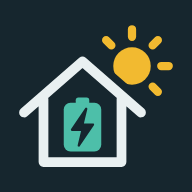
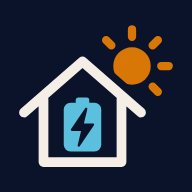
Nieuw kleurenschema: navy, staalblauw, lichtblauw, zand en oranje
Dag = zand/creme canvas met navy inkt, nacht = #0B132B met creme inkt.
Oranje #D97706 is de call to action (primaire knoppen, schakelaars aan).
Betekeniskleuren afgestemd op het palet en getoetst op contrast (>= 4.5:1).
Icoon, logo's, splash, theme-color, manifest en e-mails mee.

Claude-Session: https://claude.ai/code/session_01V9oTzT3oYTA3isygKgAei9

Changed region(s): [[0.5312, 0.125, 0.9062, 0.5], [0.3125, 0.5, 0.5312, 0.8125]]

diff --git a/app/assets/main.css b/app/assets/main.css
@@ -1,8 +1,9 @@
 /*
  * WattsWise design system.
  *
- * The canvas follows the sun over the house, not the phone: daylight grey (the STREAM's casing)
- * while the sun is up, polder-night blue after dusk. `plugins/sky.client.ts` sets
+ * The canvas follows the sun over the house, not the phone: sand (#F4D6B0, lightened) with navy ink
+ * while the sun is up, navy (#0B132B) with cream ink after dusk. The palette: #0B132B · #1C2541 ·
+ * #3A506B · #5BC0DE · #F4D6B0 · #D97706. `plugins/sky.client.ts` sets
  * <html data-sky="day|night">.
  *
  * Color carries meaning, never decoration, and the meaning is the price:
@@ -12,6 +13,7 @@
  *   own    = self-use
  *   hold   = holding / idle
  * The charge level itself is ink: the battery is neutral, what it does is colored.
+ * Orange (#D97706) is the call to action and nothing else: primary buttons and switches that are on.
  *
  * One typeface, Archivo, with its width axis doing the work: wide for the status sentence,
  * normal for reading, condensed + tabular for numbers and dense rows.
@@ -42,53 +44,56 @@
 :root,
 :root[data-sky='day'] {
   color-scheme: light;
-  --bg: #e6ecee;
-  --surface: #f2f5f6;
-  --surface-2: #dbe3e6;
-  --surface-3: #c9d4d8;
-  --rule: rgba(15, 34, 41, 0.14);
-  --text: #0f2229;
-  --text-2: #4a5f67;
-  --muted: #5c7077;
-  --fill: rgba(15, 34, 41, 0.1);
-  --fill-2: rgba(15, 34, 41, 0.055);
-  --grid: rgba(15, 34, 41, 0.09);
+  --bg: #f6efe4;
+  --surface: #fcf8f2;
+  --surface-2: #ede3d5;
+  --surface-3: #e0d3c1;
+  --rule: rgba(11, 19, 43, 0.14);
+  --text: #0b132b;
+  --text-2: #3a506b;
+  --muted: #5e6a80;
+  --fill: rgba(11, 19, 43, 0.1);
+  --fill-2: rgba(11, 19, 43, 0.055);
+  --grid: rgba(11, 19, 43, 0.09);
 
-  --cheap: #1b7062;
+  --cheap: #17765a;
   --dear: #a8325f;
-  --sun: #a87700;
+  --sun: #946200;
   --own: #5a4fc0;
-  --hold: #6c7f85;
-  --import: #2c6690;
+  --hold: #64748b;
+  --import: #1d6e8c;
   --alert: #b3372a;
 }
 
 :root[data-sky='night'] {
   color-scheme: dark;
-  --bg: #16262e;
-  --surface: #1c2f38;
-  --surface-2: #243a45;
-  --surface-3: #2f4753;
-  --rule: rgba(233, 240, 241, 0.13);
-  --text: #e9f0f1;
-  --text-2: #a2b4ba;
-  --muted: #74898f;
-  --fill: rgba(233, 240, 241, 0.12);
-  --fill-2: rgba(233, 240, 241, 0.065);
-  --grid: rgba(233, 240, 241, 0.08);
+  --bg: #0b132b;
+  --surface: #1c2541;
+  --surface-2: #26314f;
+  --surface-3: #3a506b;
+  --rule: rgba(244, 238, 230, 0.13);
+  --text: #f4eee6;
+  --text-2: #b0bacb;
+  --muted: #7f8ca3;
+  --fill: rgba(244, 238, 230, 0.12);
+  --fill-2: rgba(244, 238, 230, 0.065);
+  --grid: rgba(244, 238, 230, 0.08);
 
-  --cheap: #4dbfa9;
-  --dear: #ec6e9f;
-  --sun: #f2ba30;
-  --own: #a497f2;
-  --hold: #6f868e;
-  --import: #79aedd;
-  --alert: #f2786a;
+  --cheap: #5dcaa0;
+  --dear: #ee85a8;
+  --sun: #f5c451;
+  --own: #a9a1f5;
+  --hold: #7b8da8;
+  --import: #5bc0de;
+  --alert: #f47f6e;
 }
 
 :root {
   --separator: var(--rule);
   --accent: var(--text);
+  /* Call to action, the same in both skies: navy on orange is 5.8:1 (white on it would be 3.2:1) */
+  --cta: #d97706;
+  --on-cta: #0b132b;
 
   /* Older names, mapped onto the meanings above so every page follows the new palette */
   --sys-green: var(--cheap);
@@ -126,11 +131,11 @@
 * { box-sizing: border-box; -webkit-tap-highlight-color: transparent; }
 
 /* Launched at night, iOS draws white status text over the page (see utils/skyBoot.ts).
-   Keep a polder-night band under it, so the text stays readable if the sun comes up meanwhile
+   Keep a navy band under it, so the text stays readable if the sun comes up meanwhile
    and content never scrolls beneath the clock. */
 html[data-statusbar='translucent'] body::before {
   content: ''; position: fixed; top: 0; left: 0; right: 0; z-index: 40;
-  height: env(safe-area-inset-top); background: #16262e;
+  height: env(safe-area-inset-top); background: #0b132b;
 }
 html, body {
   margin: 0;
@@ -216,7 +221,7 @@ h2 { font-size: 16px; font-weight: 600; margin: 0; }
 /* Swatch for a plan action or a series */
 .sw { display: inline-block; width: 10px; height: 10px; border-radius: 2px; flex: none; }
 
-/* Buttons: ink on the canvas, no tints */
+/* Buttons: ink on the canvas, no tints; the primary one is the orange call to action */
 button, .btn {
   font: 600 15px var(--font);
   border: 1px solid var(--rule); background: transparent; color: var(--text);
@@ -225,7 +230,7 @@ button, .btn {
 }
 button:hover { background: var(--fill-2); }
 button:active { transform: translateY(1px); }
-button.primary { background: var(--text); color: var(--bg); border-color: var(--text); }
+button.primary { background: var(--cta); color: var(--on-cta); border-color: var(--cta); }
 button.primary:hover { opacity: 0.88; }
 button.plain { border: 0; background: none; padding: 6px 2px; text-decoration: underline; text-underline-offset: 3px; text-decoration-color: var(--muted); }
 button.danger { color: var(--alert); }
@@ -288,8 +293,8 @@ label.field > span { display: block; font-size: 14px; color: var(--text-2); marg
 .switch input { opacity: 0; position: absolute; inset: 0; margin: 0; cursor: pointer; z-index: 1; }
 .switch span { position: absolute; inset: 0; border-radius: 99px; background: var(--fill); transition: background 0.2s; }
 .switch span::after { content: ''; position: absolute; top: 3px; left: 3px; width: 22px; height: 22px; border-radius: 50%; background: var(--surface); box-shadow: 0 1px 2px rgba(0, 0, 0, 0.2); transition: transform 0.25s var(--ease-out); }
-.switch input:checked + span { background: var(--text); }
-.switch input:checked + span::after { transform: translateX(18px); background: var(--bg); }
+.switch input:checked + span { background: var(--cta); }
+.switch input:checked + span::after { transform: translateX(18px); background: #fff; }
 .switch input:focus-visible + span { outline: 2px solid var(--text); outline-offset: 2px; }
 
 /* Tables */

diff --git a/app/components/EnergyScene.vue b/app/components/EnergyScene.vue
@@ -66,7 +66,7 @@
         <polygon points="236,120 286,170 286,229 236,229" fill="#cfc7bb" />
         <polygon points="236,120 286,170 236,170" fill="#ada395" />
         <polygon points="240,134 262,156 240,156" :fill="sky.horizon" />
-        <circle cx="266" cy="190" r="22" fill="#f2ba30" :opacity="0.12 + sky.darkness * 0.4" />
+        <circle cx="266" cy="190" r="22" fill="#f5c451" :opacity="0.12 + sky.darkness * 0.4" />
         <path d="M266 186V228" stroke="#fff" stroke-width="1.5" />
         <polygon points="260,178 272,178 274,188 258,188" fill="#fff6d6" />
         <rect x="238" y="212" width="22" height="16" rx="2" fill="#9d958c" />
@@ -86,9 +86,9 @@
         <!-- Charger light: breathes while charging, steady when plugged in, dim when idle -->
         <rect x="298.5" y="192" width="3" height="10" rx="1.5" :fill="car?.charging ? 'var(--cheap)' : car?.plugged ? '#f4f7fb' : '#5d636e'" :class="{ breathe: car?.charging && animate }" />
         <g v-if="car && car.soc != null" transform="translate(338 184)">
-          <rect width="22" height="9" rx="2.5" fill="rgba(22,38,46,0.8)" stroke="rgba(233,240,241,0.5)" stroke-width="1" />
-          <rect x="22.5" y="3" width="1.6" height="3" rx="0.6" fill="rgba(233,240,241,0.5)" />
-          <rect x="1.5" y="1.5" :width="Math.max(1, 19 * car.soc)" height="6" rx="1.4" :fill="car.charging ? 'var(--cheap)' : '#e9f0f1'" />
+          <rect width="22" height="9" rx="2.5" fill="rgba(11,19,43,0.8)" stroke="rgba(244,238,230,0.5)" stroke-width="1" />
+          <rect x="22.5" y="3" width="1.6" height="3" rx="0.6" fill="rgba(244,238,230,0.5)" />
+          <rect x="1.5" y="1.5" :width="Math.max(1, 19 * car.soc)" height="6" rx="1.4" :fill="car.charging ? 'var(--cheap)' : '#f4eee6'" />
         </g>
         <rect x="124" y="196" width="17" height="29" rx="3" fill="#e9edf2" />
         <rect x="129" y="193" width="7" height="3" rx="1" fill="#e9edf2" />
@@ -145,7 +145,7 @@ const sky = computed(() => skyFor(sun.value.altitude))
 const sunX = computed(() => Math.round(195 + Math.max(-1.2, Math.min(1.2, sun.value.hourAngle / 100)) * 160))
 const sunY = computed(() => Math.round(196 - sun.value.altitude * 4.2))
 // A low sun is warmer; fixed colors, so it never borrows a meaning from the price palette
-const sunColor = computed(() => (sun.value.altitude < 6 ? '#f2913a' : '#f2ba30'))
+const sunColor = computed(() => (sun.value.altitude < 6 ? '#d97706' : '#f5c451'))
 const sunLabel = computed(() => {
   const { sunrise, sunset } = nextSunEvents(now.value)
   const hhmm = (d: Date) => d.toLocaleTimeString('nl-NL', { timeZone: 'Europe/Amsterdam', hour: '2-digit', minute: '2-digit' })
@@ -226,8 +226,8 @@ const aria = computed(() => chips.value.map((c) => `${c.label} ${c.value}`).join
    does: chips, wires and their colors read the same over a blue noon sky and a starry one. */
 .scene {
   position: relative; border-radius: var(--radius); overflow: hidden; aspect-ratio: 390 / 290; transition: background 2s;
-  --bg: #16262e; --text: #e9f0f1; --text-2: #a2b4ba; --surface-3: #2f4753;
-  --cheap: #4dbfa9; --dear: #ec6e9f; --sun: #f2ba30; --import: #79aedd;
+  --bg: #0b132b; --text: #f4eee6; --text-2: #b0bacb; --surface-3: #3a506b;
+  --cheap: #5dcaa0; --dear: #ee85a8; --sun: #f5c451; --import: #5bc0de;
   color: var(--text);
 }
 /* Only the illustration fills the scene; icons inside chips and the legend flow normally */
@@ -242,9 +242,9 @@ const aria = computed(() => chips.value.map((c) => `${c.label} ${c.value}`).join
 
 .where, .chip {
   position: absolute;
-  background: rgba(22, 38, 46, 0.74);
+  background: rgba(11, 19, 43, 0.72);
   -webkit-backdrop-filter: blur(12px); backdrop-filter: blur(12px);
-  box-shadow: inset 0 0 0 1px rgba(233, 240, 241, 0.12);
+  box-shadow: inset 0 0 0 1px rgba(244, 238, 230, 0.12);
 }
 .where { top: 8px; right: 8px; padding: 3px 9px; border-radius: 4px; font-size: 12px; color: var(--text-2); font-variant-numeric: tabular-nums; }
 .chip { display: flex; align-items: center; gap: 7px; padding: 4px 10px 4px 5px; border-radius: 6px; }

diff --git a/server/lib/emails.ts b/server/lib/emails.ts
@@ -138,24 +138,24 @@ function text(c: Content, locale: Locale): string {
 
 /** Inline styles only: mail clients drop <style> blocks and most CSS. Colors from the app's light theme. */
 function html(c: Content, locale: Locale, appUrl: string): string {
-  const p = (s: string, style = 'margin:0 0 16px;font-size:16px;line-height:1.5;color:#0f2229') => `<p style="${style}">${esc(s)}</p>`
+  const p = (s: string, style = 'margin:0 0 16px;font-size:16px;line-height:1.5;color:#0b132b') => `<p style="${style}">${esc(s)}</p>`
   const button = c.button
-    ? `<p style="margin:24px 0"><a href="${esc(c.button.url)}" style="display:inline-block;padding:12px 20px;border-radius:10px;background:#0f2229;color:#ffffff;font-weight:600;text-decoration:none">${esc(c.button.label)}</a></p>
-<p style="margin:0 0 16px;font-size:13px;line-height:1.5;color:#4a5f67;word-break:break-all">${esc(c.button.url)}</p>`
+    ? `<p style="margin:24px 0"><a href="${esc(c.button.url)}" style="display:inline-block;padding:12px 20px;border-radius:10px;background:#d97706;color:#0b132b;font-weight:600;text-decoration:none">${esc(c.button.label)}</a></p>
+<p style="margin:0 0 16px;font-size:13px;line-height:1.5;color:#3a506b;word-break:break-all">${esc(c.button.url)}</p>`
     : ''
   return `<!doctype html>
 <html lang="${locale}"><head><meta charset="utf-8"><meta name="viewport" content="width=device-width"><title>${esc(c.subject)}</title></head>
-<body style="margin:0;padding:24px 12px;background:#e6ecee;font-family:-apple-system,BlinkMacSystemFont,'Segoe UI',Helvetica,Arial,sans-serif">
+<body style="margin:0;padding:24px 12px;background:#f6efe4;font-family:-apple-system,BlinkMacSystemFont,'Segoe UI',Helvetica,Arial,sans-serif">
 <table role="presentation" width="100%" cellpadding="0" cellspacing="0"><tr><td align="center">
-<table role="presentation" width="100%" cellpadding="0" cellspacing="0" style="max-width:520px;background:#f4f7f8;border-radius:16px">
+<table role="presentation" width="100%" cellpadding="0" cellspacing="0" style="max-width:520px;background:#fcf8f2;border-radius:16px">
 <tr><td style="padding:28px 28px 8px"><img src="${esc(appUrl)}/icon-192.png" width="40" height="40" alt="WattsWise" style="display:block;border-radius:10px"></td></tr>
 <tr><td style="padding:8px 28px 12px">
-<h1 style="margin:0 0 16px;font-size:22px;line-height:1.3;color:#0f2229">${esc(c.heading)}</h1>
+<h1 style="margin:0 0 16px;font-size:22px;line-height:1.3;color:#0b132b">${esc(c.heading)}</h1>
 ${c.paragraphs.map((x) => p(x)).join('\n')}
 ${button}
-${c.note ? p(c.note, 'margin:0 0 16px;font-size:14px;line-height:1.5;color:#4a5f67') : ''}
+${c.note ? p(c.note, 'margin:0 0 16px;font-size:14px;line-height:1.5;color:#3a506b') : ''}
 </td></tr>
-<tr><td style="padding:16px 28px 24px;border-top:1px solid #d5dee1;font-size:12px;color:#4a5f67">${esc(FOOTER[locale])}</td></tr>
+<tr><td style="padding:16px 28px 24px;border-top:1px solid #e0d3c1;font-size:12px;color:#3a506b">${esc(FOOTER[locale])}</td></tr>
 </table></td></tr></table>
 </body></html>`
 }

diff --git a/nuxt.config.ts b/nuxt.config.ts
@@ -48,8 +48,8 @@ export default defineNuxtConfig({
         { rel: 'manifest', href: '/manifest.webmanifest' },
         // Archivo with its width axis, served by us (see main.css): no request to Google, so no visitor IP leaves for it
         { rel: 'preload', href: '/fonts/archivo-latin.woff2', as: 'font', type: 'font/woff2', crossorigin: '' },
-        { rel: 'icon', type: 'image/svg+xml', href: '/favicon.svg?v=4' },
-        { rel: 'icon', type: 'image/png', sizes: '32x32', href: '/favicon-32.png?v=4' },
+        { rel: 'icon', type: 'image/svg+xml', href: '/favicon.svg?v=5' },
+        { rel: 'icon', type: 'image/png', sizes: '32x32', href: '/favicon-32.png?v=5' },
         // PNG only: iOS can't use SVG for the Home Screen icon
         { rel: 'apple-touch-icon', sizes: '180x180', href: appleTouchIcon },
       ],

diff --git a/app/components/site/Shell.vue b/app/components/site/Shell.vue
@@ -85,7 +85,7 @@ useSeoMeta({
 .site-nav { display: flex; align-items: center; gap: 14px; font-size: 15px; }
 .site-nav a { color: var(--text); text-decoration: none; }
 .site-nav .lang { color: var(--text-2); }
-.site-nav .start { padding: 8px 14px; border-radius: 999px; background: var(--text); color: var(--bg); font-weight: 600; white-space: nowrap; }
+.site-nav .start { padding: 8px 14px; border-radius: 999px; background: var(--cta); color: var(--on-cta); font-weight: 600; white-space: nowrap; }
 .site-pages { display: flex; flex-wrap: wrap; gap: 4px 20px; max-width: 1080px; width: 100%; margin: 0 auto; padding: 0 16px 8px; font-size: 15px; }
 .site-pages a { color: var(--text-2); text-decoration: none; padding: 6px 0; border-bottom: 2px solid transparent; }
 .site-pages a:hover { color: var(--text); }

diff --git a/tests/skyBoot.test.ts b/tests/skyBoot.test.ts
@@ -32,7 +32,7 @@ describe('sky boot script', () => {
 
   it('launches translucent at night and default by day', () => {
     vi.useFakeTimers()
-    expect(boot(new Date('2026-10-21T21:00:00Z'))).toEqual({ sky: 'night', statusbar: 'translucent', style: 'black-translucent', theme: '#16262e' })
-    expect(boot(new Date('2026-10-21T11:00:00Z'))).toEqual({ sky: 'day', statusbar: undefined, style: 'default', theme: '#e6ecee' })
+    expect(boot(new Date('2026-10-21T21:00:00Z'))).toEqual({ sky: 'night', statusbar: 'translucent', style: 'black-translucent', theme: '#0b132b' })
+    expect(boot(new Date('2026-10-21T11:00:00Z'))).toEqual({ sky: 'day', statusbar: undefined, style: 'default', theme: '#f6efe4' })
   })
 })

diff --git a/app/plugins/sky.client.ts b/app/plugins/sky.client.ts
@@ -2,7 +2,7 @@ import { sunPosition } from '~/utils/sun'
 
 // The canvas follows the sun over the house: daylight while the sun is above civil twilight
 // (-6°), polder night after that. Rechecked every minute and whenever the app comes back to the front.
-const THEME = { day: '#e6ecee', night: '#16262e' } as const
+const THEME = { day: '#f6efe4', night: '#0b132b' } as const
 
 export default defineNuxtPlugin(() => {
   const sky = useState<'day' | 'night'>('sky', () => 'day')

diff --git a/app/utils/skyBoot.ts b/app/utils/skyBoot.ts
@@ -23,5 +23,5 @@ h.dataset.sky=night?'night':'day';
 if(night)h.dataset.statusbar='translucent';
 function meta(n,c){var m=document.createElement('meta');m.setAttribute('name',n);m.setAttribute('content',c);document.head.appendChild(m)}
 meta('apple-mobile-web-app-status-bar-style',night?'black-translucent':'default');
-meta('theme-color',night?'#16262e':'#e6ecee');
+meta('theme-color',night?'#0b132b':'#f6efe4');
 }catch(_){}})()`

diff --git a/capacitor.config.ts b/capacitor.config.ts
@@ -10,7 +10,7 @@ const config: CapacitorConfig = {
     // The page draws under the status bar and home indicator itself (env(safe-area-inset-*) in main.css)
     contentInset: 'never',
     // Before the page has painted: the day canvas, not white
-    backgroundColor: '#e6ecee',
+    backgroundColor: '#f6efe4',
   },
 }
 
